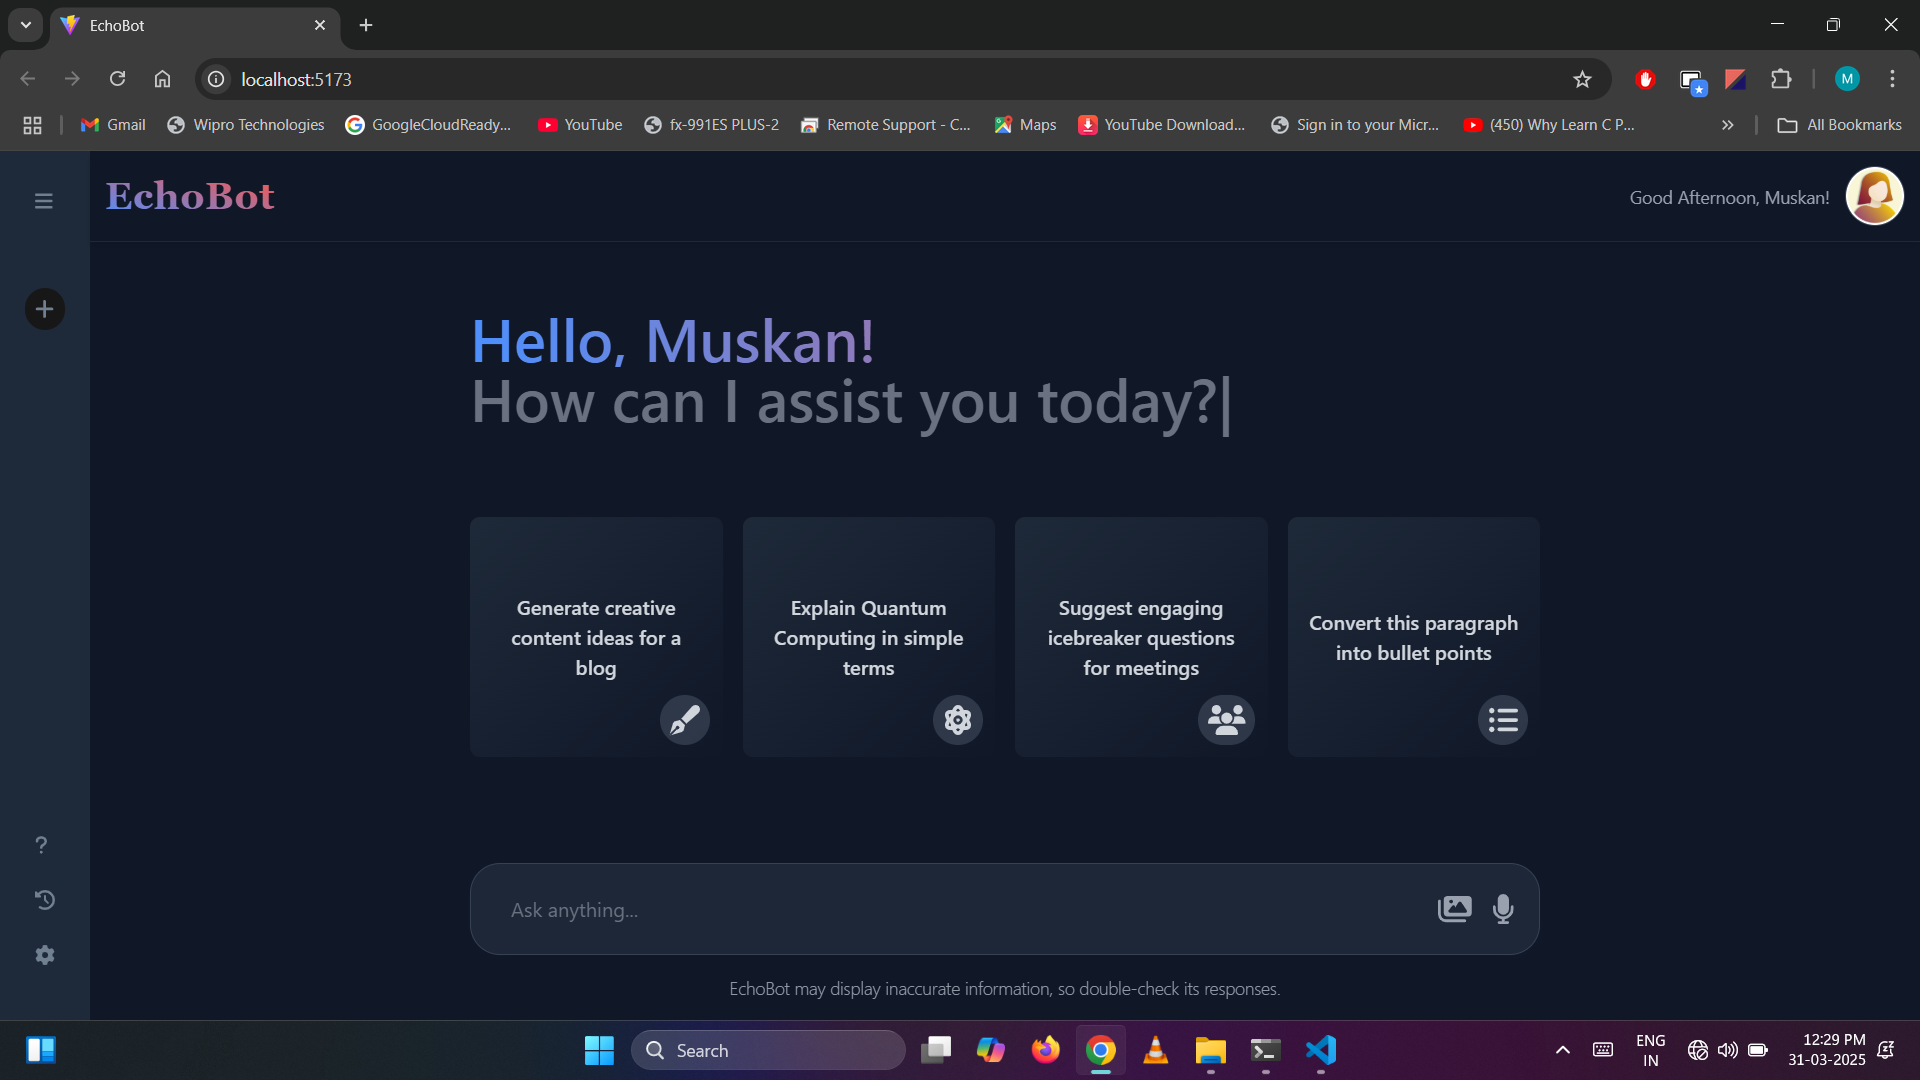
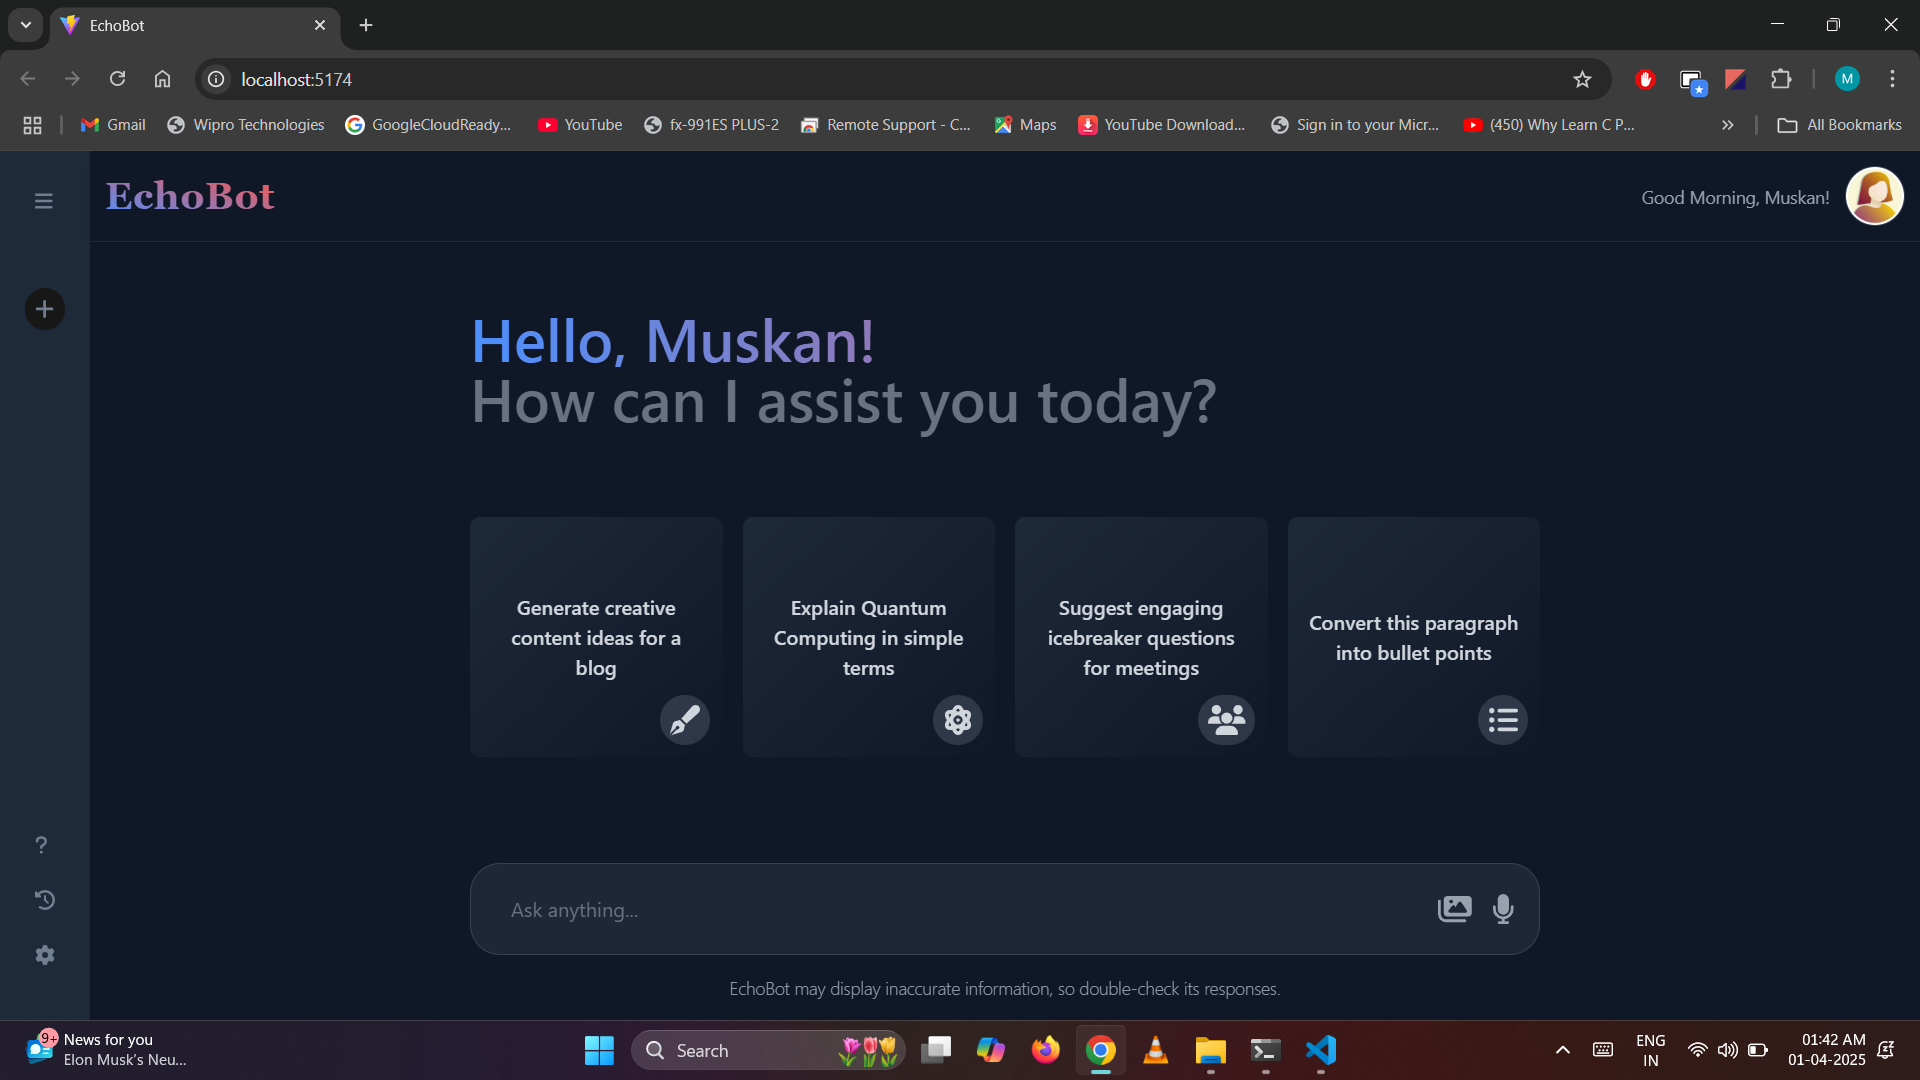
Updated typing effect functionality

Changed region(s): [[0.3438, 0.9472, 0.9062, 1.0], [0.0, 0.9472, 0.0938, 1.0], [0.9375, 0.9472, 0.9688, 0.9778]]

diff --git a/src/components/Main/Main.jsx b/src/components/Main/Main.jsx
@@ -6,7 +6,7 @@ import { faImages, faMicrophone, faPaperPlane, faPenFancy, faAtom, faUsers, faLi
 import { useState, useEffect, useRef } from 'react';
 import { FaSignOutAlt} from 'react-icons/fa';
 import { Context } from '../../context/Context'
-import Typical from 'react-typical';
+
 
 const Main = () => {
 
@@ -15,7 +15,12 @@ const Main = () => {
     const [greeting, setGreeting] = useState("Hello");
     const [menuOpen, setMenuOpen] = useState(false);
     const menuRef = useRef(null);
-    const [showSecondLine, setShowSecondLine] = useState(false);
+
+    const [text1, setText1] = useState('');
+    const [text2, setText2] = useState('');
+    const [index, setIndex] = useState(0);
+    const message1 = "Hello, Muskan!";
+    const message2 = "How can I assist you today?";
 
     useEffect(() => {
         const hour = new Date().getHours();
@@ -39,6 +44,28 @@ const Main = () => {
           document.removeEventListener("mousedown", handleClickOutside);
         };
     }, [menuOpen]);
+
+    useEffect(() => {
+        let typingInterval;
+        
+        if (index === 0) {
+          typingInterval = setInterval(() => {
+            setText1((prev) => message1.slice(0, prev.length + 1));
+          }, 100); 
+    
+          if (text1 === message1) {
+            setTimeout(() => {
+              setIndex(1);
+            }, 2000); 
+          }
+        } else if (index === 1) {
+          typingInterval = setInterval(() => {
+            setText2((prev) => message2.slice(0, prev.length + 1));
+          }, 100);
+        }
+    
+        return () => clearInterval(typingInterval);
+    }, [text1, text2, index]);
 
   return (
     <div className='flex-1 min-h-[100vh] pb-[15vh] bg-gray-900 relative'>
@@ -78,9 +105,8 @@ const Main = () => {
         </div>
         <div className='max-w-4xl m-auto'>
             {!showResult ? (
-                <>
+                <>  
                     <div className="my-8 text-4xl sm:text-5xl font-medium p-5">
-                        {/* First Line */}
                         <p
                             style={{
                             background: "-webkit-linear-gradient(16deg, #4b90ff, #ff5546)",
@@ -88,14 +114,16 @@ const Main = () => {
                             WebkitTextFillColor: "transparent",
                             }}
                         >
-                            <Typical steps={["Hello, Muskan!", 2000]} wrapper="span" />
+                            {text1}
                         </p>
 
-                        {/* Second Line */}
-                        <p className="text-gray-500">
-                            <Typical steps={["How can I assist you today?", 2000]} wrapper="span" />
-                        </p>
+                        {index === 1 && (
+                            <p className="text-gray-500">
+                            {text2}
+                            </p>
+                        )}
                     </div>
+                                    
                     <div className="grid grid-cols-1 sm:grid-cols-2 lg:grid-cols-3 xl:grid-cols-4 gap-4 p-5 text-gray-300">
                         {[
                             { text: "Generate creative content ideas for a blog", icon: faPenFancy },
